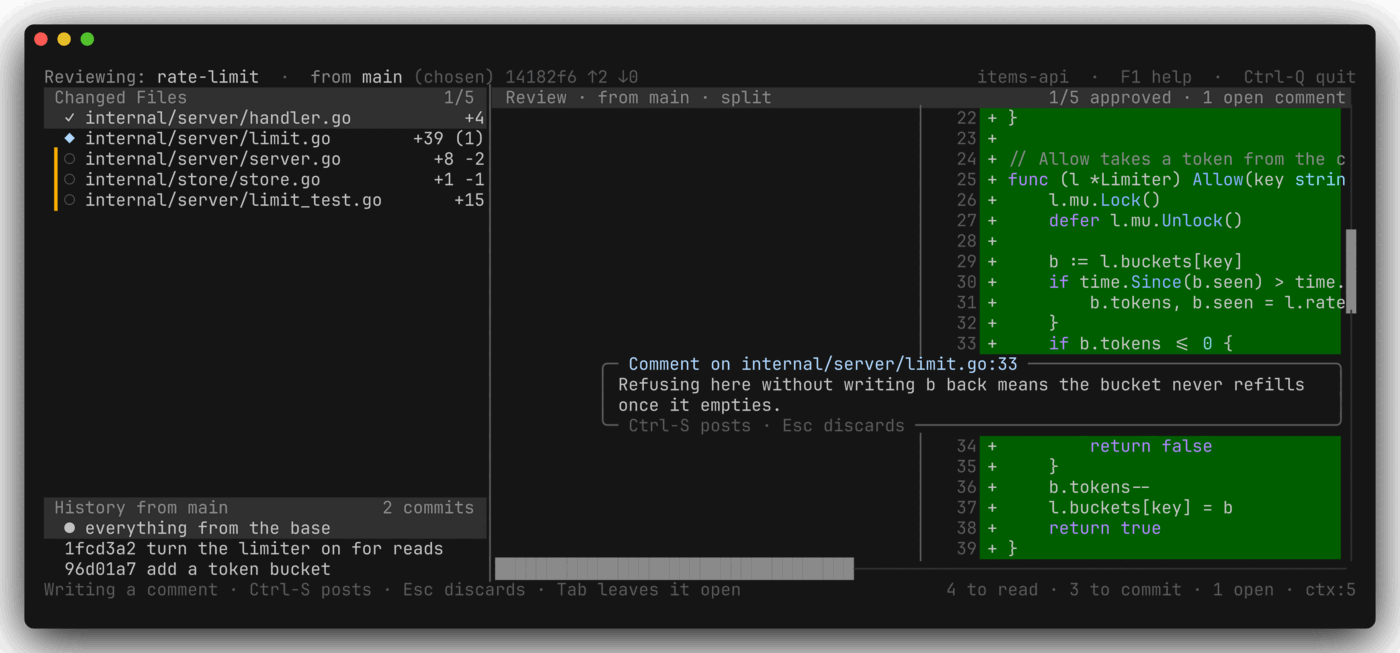
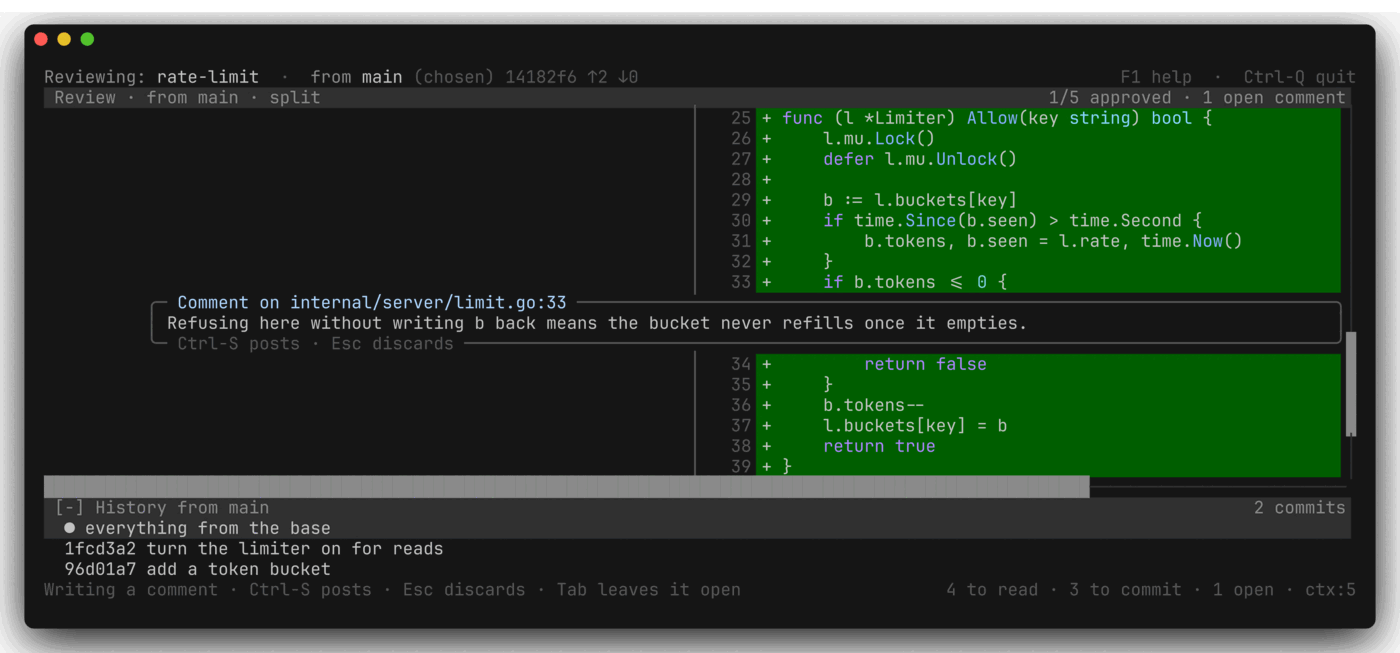
Say why H does nothing on a short window, and retake the pictures
H and the button on the history's title now say the window is too short
whether the history was folded or not, rather than only when it was
unfolded: a folded history on a window with no row for it used to flip
unseen and come back open later.

A window of nothing but folded headings no longer wears a scrollbar
along its foot. The longest line was measured across every file, folded
or not, so the lines inside files nobody had opened asked for a bar with
nothing to scroll.

The screenshots are retaken from the one-column window, and the
scenarios that take them start from a window that opens folded.

diff --git a/internal/ui/shot_test.go b/internal/ui/shot_test.go
@@ -423,8 +423,8 @@ func TestWriteScreenshots(t *testing.T) {
 		// the picture is of.
 		take func(t *testing.T, m Model) Model
 	}{{
-		// The window itself: the list, the history, the stack, an approval,
-		// an argument, and the margin down the side of what is not committed.
+		// The window itself: the stack, the history under it, an approval, an
+		// argument, and the margin down the side of what is not committed.
 		name: "review", w: 128, h: 38,
 		take: func(t *testing.T, m Model) Model {
 			return onLine(t, m, "internal/server/limit.go", '+', "buckets map[string]bucket")
@@ -440,23 +440,24 @@ func TestWriteScreenshots(t *testing.T) {
 			return wheel(t, m, 2)
 		},
 	}, {
-		// Every file at once: what F leaves you with, and what a review looks
+		// Every file at once: how the window opens, and what a review looks
 		// like from above.
 		name: "folded", w: 128, h: 18,
-		take: func(t *testing.T, m Model) Model { return drive(t, m, letterKey("F")) },
+		take: func(t *testing.T, m Model) Model { return m },
 	}, {
 		// One commit on its own, with a remark made against the whole review
 		// carried back to the line that introduced it.
 		name: "commit", w: 128, h: 28,
 		take: func(t *testing.T, m Model) Model {
-			return selectCommit(t, m, "add a token bucket")
+			// F opens what the commit touched: a window opens folded.
+			return drive(t, selectCommit(t, m, "add a token bucket"), letterKey("F"))
 		},
 	}, {
 		// And the other half of that: a commit this remark is not about keeps
 		// it under the file's heading rather than putting it on a wrong line.
 		name: "loose", w: 128, h: 20,
 		take: func(t *testing.T, m Model) Model {
-			return selectCommit(t, m, "turn the limiter on for reads")
+			return drive(t, selectCommit(t, m, "turn the limiter on for reads"), letterKey("F"))
 		},
 	}, {
 		// Side by side, with the panes out of the way. No s: a review opens

diff --git a/internal/ui/layout_test.go b/internal/ui/layout_test.go
@@ -285,6 +285,12 @@ func TestAWindowTooShortForTheHistoryFoldsIt(t *testing.T) {
 	if m.focus != focusReview {
 		t.Errorf("Tab went to %v", m.focus)
 	}
+	// H cannot show it and does not pretend to: it says why, and leaves the
+	// history as it was for when there is room again.
+	m = drive(t, m, letterKey("H"))
+	if !m.histOpen || !strings.Contains(m.status, "too short") {
+		t.Errorf("H on a short window left open=%v status=%q", m.histOpen, m.status)
+	}
 	// And it comes back with the room.
 	m = drive(t, m, tea.WindowSizeMsg{Width: 100, Height: 30})
 	if !strings.Contains(plain(m), "[-] History") {
@@ -302,5 +308,29 @@ func TestTheHistoryTakesAThirdAtMost(t *testing.T) {
 		if got := m.rects[focusHistory].h; got > max(body/3, 2) {
 			t.Errorf("at %d rows the history takes %d of the %d under the bars", h, got, body)
 		}
+	}
+}
+
+// A window of nothing but headings has nothing running past its right margin,
+// however long the lines inside the folded files are, so it wears no bar along
+// its foot.
+func TestFoldedFilesAskForNoHorizontalBar(t *testing.T) {
+	m := newTestModel(t)
+	writeFile(t, m.repo.Dir, "wide.txt", strings.Repeat("a very long line ", 40)+"\n")
+	m = drive(t, m, m.rescanCmd()())
+	if !fileIn(t, m, "wide.txt").folded {
+		t.Fatal("the new file did not arrive folded")
+	}
+	for _, f := range m.view.files {
+		m.folds[f.path] = true
+	}
+	m.rebuild()
+	if _, horz := m.view.bars(); horz {
+		t.Error("a window of folded files is wearing a horizontal bar")
+	}
+
+	m = onLine(t, m, "wide.txt", '+', "a very long line")
+	if _, horz := m.view.bars(); !horz {
+		t.Error("the open file's long line did not bring the bar back")
 	}
 }

diff --git a/internal/ui/view.go b/internal/ui/view.go
@@ -55,7 +55,7 @@ func (m *Model) layoutStacked(body int) {
 			histH = 1 + min(max(body/3-1, 1), m.history.rows())
 			histH = min(histH, max(body-3, 1))
 		}
-		if histH < 2 {
+		if !m.historyFits() {
 			// No room for a row of it. It is drawn as folded because it is,
 			// and the keyboard cannot be left in something with no rows.
 			m.history.button = "[+] "
@@ -72,6 +72,10 @@ func (m *Model) layoutStacked(body int) {
 	}
 	m.clampPanes()
 }
+
+// historyFits reports whether the window has room for a row of history under
+// the review, which keeps three rows of its own whatever else is asked for.
+func (m *Model) historyFits() bool { return max(m.height-2, 4)-3 >= 2 }
 
 // layoutZoom gives the focused pane the whole window. Nothing else is drawn,
 // so nothing else is laid out and nothing else can be clicked.

diff --git a/internal/ui/model.go b/internal/ui/model.go
@@ -980,10 +980,10 @@ func (m Model) doToggleHistory() (tea.Model, tea.Cmd) {
 		m.setError("This branch has no commits of its own")
 		return m, nil
 	}
-	if !m.zoom && m.histOpen && m.history.height <= 0 {
-		// Unfolded already, on a window with no row to draw it in. Flipping
-		// it would change nothing on screen now and fold it later, when the
-		// room came back.
+	if !m.zoom && !m.historyFits() {
+		// No row to draw it in, folded or not. Flipping it would change
+		// nothing on screen now and something later, when the room came
+		// back, so the key says why instead.
 		m.setWarn("The window is too short to show the history")
 		return m, nil
 	}

diff --git a/internal/ui/reviewview.go b/internal/ui/reviewview.go
@@ -540,7 +540,12 @@ func (v *reviewView) build() {
 	v.numW, v.long = 0, 0
 	for _, f := range v.files {
 		v.numW = max(v.numW, numberWidth(f.lines))
-		v.long = max(v.long, longestLine(f.texts))
+		// Only what is drawn can run past the margin: a folded file's long
+		// lines are not on screen to be scrolled to, and a bar along the foot
+		// of a window showing nothing but headings would be a bar for nothing.
+		if !f.folded {
+			v.long = max(v.long, longestLine(f.texts))
+		}
 	}
 
 	rows := make([]reviewRow, 0, 256)
